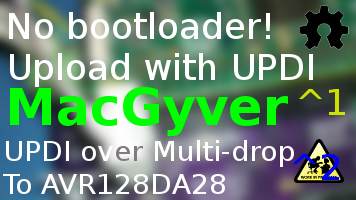
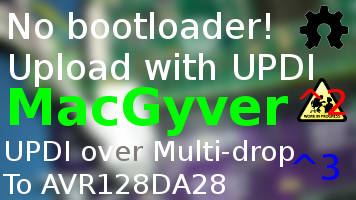
Hardware: manager debug uart needs to connect to other side of IOFF buffer

Changed region(s): [[0.8343, 0.39, 0.9888, 0.63], [0.8034, 0.69, 0.9888, 0.93]]

diff --git a/Manager/BlinkLED/README.md b/Manager/BlinkLED/README.md
@@ -1,25 +1,49 @@
 # BlinkLED
 
+## ToDo
+
+The UPDImode.py script needs some attention, the output is out of sync.
+
 ## Overview
 
 TBD
-
 
 ## Firmware Upload
 
 Uses a UPDI upload tool. Run 'make' to compile and 'make updi' to upload.
 
-```
+```bash
 sudo apt-get install make git gcc-avr binutils-avr gdb-avr avr-libc python3-pip
 pip3 install pymcuprog
-# I was using pyupdi, but will start using pymcuprog
+# I was using pyupdi, but it does not seem to support AVR128DB's so I will start using pymcuprog
 # pip3 install pyserial intelhex pylint https://github.com/mraardvark/pyupdi/archive/master.zip
 git clone https://github.com/epccs/MacGyver/
 # RPUusb has some programs to control UPDI and UART modes
 git clone https://github.com/epccs/RPUusb
 cd /MacGyver/Manager/BlinkLED
 make all
+...
 make updi
+testing for prerequesetits a false will stop make
+which python3 2>/dev/null || false
+/usr/bin/python3
+which pymcuprog 2>/dev/null || false
+/home/rsutherland/.local/bin/pymcuprog
+ls ../../../RPUusb/UPDImode/UPDImode.py 2>/dev/null || false
+../../../RPUusb/UPDImode/UPDImode.py
+ls ../../../RPUusb/UPDImode/UARTmode.py 2>/dev/null || false
+../../../RPUusb/UPDImode/UARTmode.py
+python3 ../../../RPUusb/UPDImode/UPDImode.py
+junk: ds include
+cmd echo: /0/id?
+response: /0/updi
+pymcuprog write -t uart -u /dev/ttyUSB0 -d avr128db32 --verify -f BlinkLED.hex
+Writing from hex file...
+Writing flash...
+Verifying flash...
+OK
+Done.
+python3 ../../../RPUusb/UPDImode/UARTmode.py
 ```
 
 ## How To Use
@@ -28,21 +52,21 @@ Kicking the tires
 
 Hopefully, the firmware upload worked; it should have switched the serial port connection back to UART mode so I can use picocom to interact with the AVR's USART0.
 
-``` 
-[picocom -b 38400 /dev/ttyUSB0]
-picocom -b 38400 /dev/ttyAMA0
+```bash
+picocom -b 38400 /dev/ttyUSB0
+[picocom -b 38400 /dev/ttyAMA0]
 ...
 a
 # exit is C-a, C-x
 # if it aborts you can reset with pymcuprog
 make reset
-``` 
+```
 
 Using picocom send an 'a' to toggle the blinking (and ping i2c after that is working) on and off; after a few toggles, it will abort.
 
 To test the i2c (TWI) I am using an RPUusb board that plugs into where the R-Pi would. It has a m328pb with i2c-debug software and is acceses from its second serial port /dev/ttyUSB1.
 
-``` 
+```bash
 picocom -b 38400 /dev/ttyUSB1
 ...
 /0/id?
@@ -53,38 +77,8 @@ picocom -b 38400 /dev/ttyUSB1
 {"monitor_0x29":[{"data":"0x0"}]}
 {"monitor_0x29":[{"data":"0x0"}]}
 ...
-``` 
+```
 
 Ping TWI with each LED toggle; imon does not show updates if it is swamped with pings. The twi0_mc lib was first checked and then twi0_bsd was debuged and then ran (it is not much of a test but is a start).
 
-
-
-
-The AVR128DA28 starts running at 24MHz/6 (4MHz) from the factory. To run at another frequency, we can change the clock select bit field (e.g., CLKCTRL_FREQSEL_16M_gc). The timers_bsd.c will select the correct option based on the F_CPU value that the Makefile passes to the compiler during the build.
-
-To set the clock with code requires meeting a 4 cycle timing.
-
-```
-// The magic is found in xmega.h and its use of consecutive OUT then STS in this sequence guarantee the timing.
-
-/*
-#define _PROTECTED_WRITE(reg, value)				\
-  __asm__ __volatile__("out %[ccp], %[ccp_ioreg]" "\n\t"	\
-		       "sts %[ioreg], %[val]"			\
-		       :					\
-		       : [ccp] "I" (_SFR_IO_ADDR(CCP)),		\
-			 [ccp_ioreg] "d" ((uint8_t)CCP_IOREG_gc),	\
-			 [ioreg] "n" (_SFR_MEM_ADDR(reg)),	\
-			 [val] "r" ((uint8_t)value))
-*/
-
-// set clock to 20MHz (needs 5V on supply to function)
-void clock_init(void) {
-    _PROTECTED_WRITE(CLKCTRL_OSCHFCTRLA, CLKCTRL_FREQSEL_20M_gc);
-}
-
-```
-
-This info was from 
-
-https://www.avrfreaks.net/forum/tutsoft-avr-01-series-setting-tca0-split-mode-pwm
+The AVR128DB28 starts running at 24MHz/6 (4MHz) from the factory. To run at another frequency change the F_CPU define in the Makefile. The timers_bsd.c will select the correct option based on the F_CPU value passed to the compiler during the build.

diff --git a/Hardware/Schooling/readme.md b/Hardware/Schooling/readme.md
@@ -4,10 +4,16 @@ Some lessons I learned doing MacGyver.
 
 # Table Of Contents:
 
+1. ^2 Manager Debug UART
 1. ^1 UPDI Mode Does Not Turn Off
 1. ^1 Name
 1. ^0 Serial 0 Does Not Crossover
 
+## ^2 Manager Debug UART
+
+Needs to connect on the other side of IOFF buffer so that it will disable when UART mode is off
+
+![MgrDebugUart_LayoutFix](./MacGyver^2,MgrDebugUart_LayoutFix.png "Manager Debug Uart Fix")
 
 ## ^1 UPDI Mode Does Not Turn Off
 
@@ -17,11 +23,9 @@ To help understan the problem I isolated UPDI mode to BCM24 and UART mode to BCM
 
 [RPUusb_029ec11]: https://github.com/epccs/RPUusb/commit/029ec1194d0428e7181b6f8db35fa39c39068542
 
-
 ## ^1 Name
 
 PiUpdi (the original name) is almost the same as the upload tool (pyupdi), don't do that. There are lots of unintentional consequences that happen after naming a thing. If I am getting confused, then others may also, it is best just to change the name. I have seen letter combinations that did not previously exist on the internet turn into unpleasant references, so I would preferably use a word that is in regular use, even though it makes the board invisible (I guess search for "MacGyver AVR"). I don't recall watching many of the TV shows, but some of the memes seem fitting. 
-
 
 ## ^0 Serial 0 Does Not Crossover
 

diff --git a/Hardware/README.md b/Hardware/README.md
@@ -45,7 +45,9 @@ This board allows a Raspberry Pi serial hardware port (or [adaptor] board) to in
             WIP:
             Todo: Design, Layout, BOM, Review* (#= done), Order Boards,  Assembly, Testing, Evaluation.
             *during review the Design may change without changing the revision.
-            # J9 J10 renumber to J8 J9
+            J9 J10 renumber to J8 J9
+            TO_RPU_TX has two pullup (R19 and R104), remove R104
+            Connect Manager Debug UART to the other side of IOFF buffer.
 
         ^2  Done: Design, Layout, BOM, Review* (#= done), Order Boards, Assembly,
             WIP: Testing,
